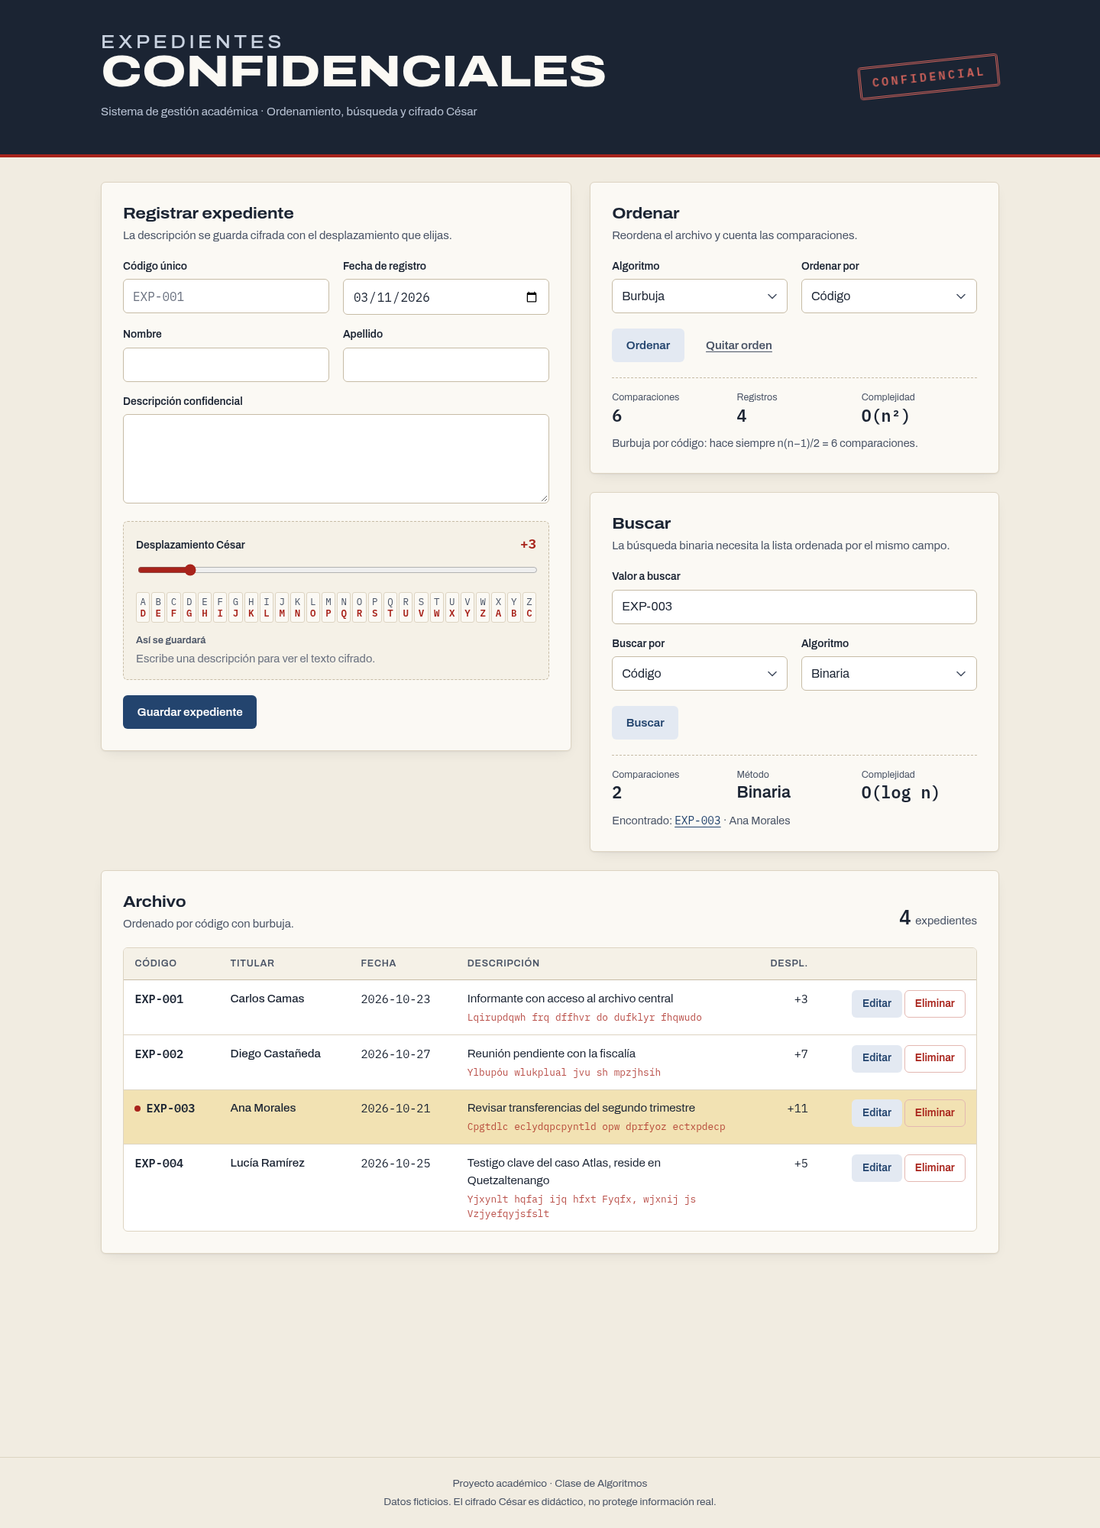
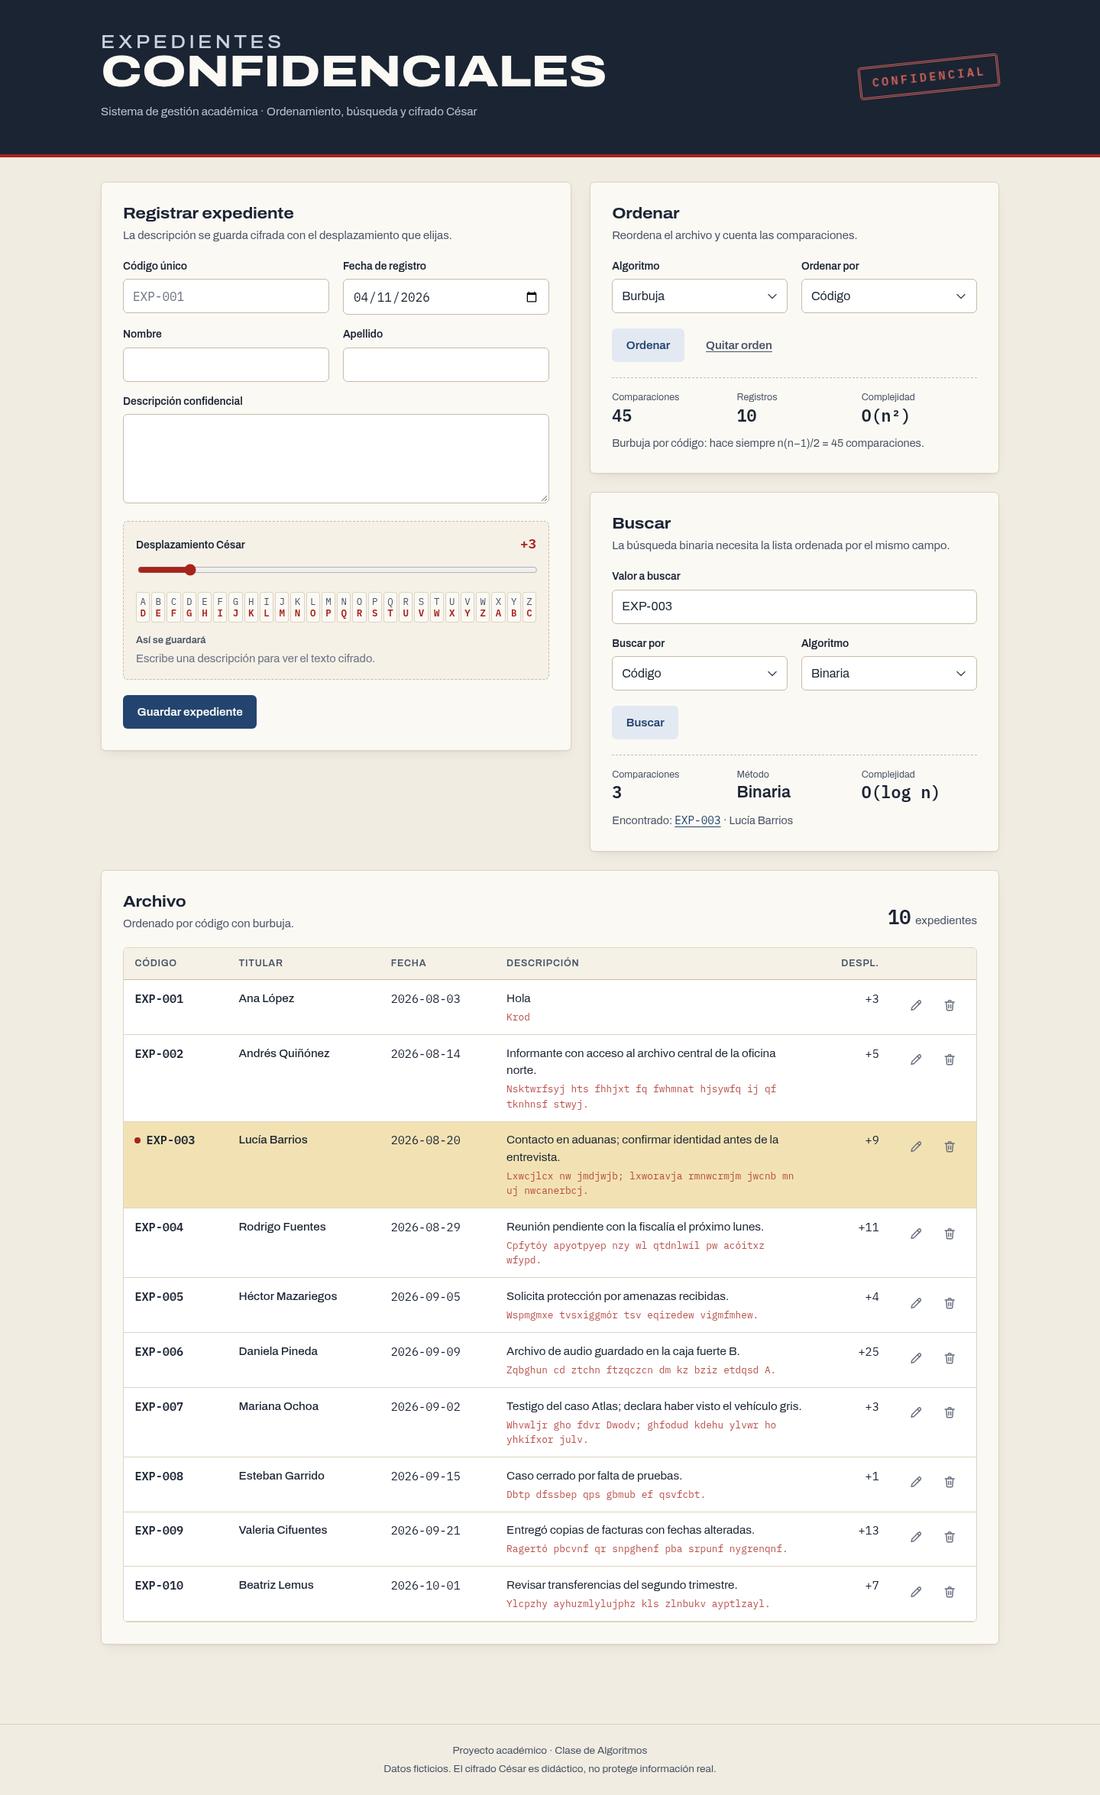
Agrega JSON de ejemplo y documentación de entrega
- 10 expedientes ficticios en data/expedientes.json y expedientes_ejemplo.json.
- docs/DOCUMENTACION.md: propuesta de valor, cumplimiento de requisitos,
  explicación de algoritmos y decisiones, evidencia de pruebas y guion de demo.
- Pruebas de archivo vacío, persistencia y validez del JSON de ejemplo.
- Capturas actualizadas con los datos de ejemplo.

Changed region(s): [[0.0, 0.0, 1.0, 0.9228], [0.34, 0.9535, 0.6491, 1.0], [0.4636, 0.1538, 0.4945, 0.2153]]

diff --git a/expedientes-confidenciales/tests/test_app.py b/expedientes-confidenciales/tests/test_app.py
@@ -127,3 +127,28 @@ def test_eliminar_vuelve_a_la_misma_vista(cliente):
     assert r.status_code == 302
     assert r.headers["Location"] == "/?ordenar=seleccion&campo_orden=nombre"
     assert leer(cliente) == []
+
+
+def test_archivo_vacio_muestra_error(cliente):
+    cliente.archivo.write_text("", encoding="utf-8")
+    html = cliente.get("/").get_data(as_text=True)
+    assert "vacío o tiene formato inválido" in html
+
+
+def test_los_datos_persisten_tras_reiniciar(cliente):
+    crear(cliente, codigo="EXP-050", descripcion="HOLA", desplazamiento=3)
+    # Simula reiniciar: se vuelve a leer el archivo desde cero.
+    [exp] = modulo.cargar_expedientes()
+    assert exp["codigo"] == "EXP-050"
+    assert exp["descripcion"] == "KROD"
+
+
+def test_json_de_ejemplo_es_valido(tmp_path, monkeypatch):
+    from pathlib import Path
+    ejemplo = Path(modulo.__file__).parent / "data" / "expedientes_ejemplo.json"
+    destino = tmp_path / "e.json"
+    destino.write_text(ejemplo.read_text(encoding="utf-8"), encoding="utf-8")
+    monkeypatch.setattr(modulo, "ARCHIVO_JSON", destino)
+    datos = modulo.cargar_expedientes()
+    assert len(datos) == 10
+    assert len({d["codigo"] for d in datos}) == 10

diff --git a/docs/DOCUMENTACION.md b/docs/DOCUMENTACION.md
@@ -1,0 +1,186 @@
+# Sistema Web de Expedientes Confidenciales — Documentación
+
+Proyecto final de Algoritmos · Universidad Mariano Gálvez de Guatemala · Ing. David Díaz
+
+## 1. Integrantes y foto del grupo
+
+| Nombre | Carné |
+|---|---|
+| _Pendiente_ | _Pendiente_ |
+| _Pendiente_ | _Pendiente_ |
+| _Pendiente_ | _Pendiente_ |
+| _Pendiente_ | _Pendiente_ |
+
+![Foto del grupo](foto-grupo.jpg)
+
+> Pendiente: guardar la foto grupal (no individuales) como `docs/foto-grupo.jpg` y completar la tabla.
+
+## 2. Propuesta de valor
+
+**Para** oficinas que manejan expedientes sensibles (fiscalías, recursos humanos, investigación interna) y para estudiantes que aprenden algoritmos, **Expedientes Confidenciales** es una aplicación web que registra, organiza y encuentra expedientes guardando su descripción cifrada.
+
+- **Ordena y encuentra rápido.** Ordena por código o nombre y busca de forma secuencial o binaria, mostrando cuántas comparaciones hizo cada algoritmo. Así se ve en la práctica por qué la búsqueda binaria es más eficiente.
+- **La descripción no se guarda en texto plano.** Cada expediente tiene su propio desplazamiento César y la app muestra en vivo cómo queda cifrado. Es didáctico: César no ofrece seguridad real.
+- **Sin instalar una base de datos.** Los datos viven en un archivo JSON que se puede revisar, respaldar y compartir.
+- **Funciona en cualquier dispositivo.** Se usa desde el navegador, en computadora o celular.
+
+## 3. Cumplimiento de requisitos
+
+| Requisito del enunciado | Cómo se cumple | Dónde |
+|---|---|---|
+| Aplicación web accesible desde navegador | Flask + HTML/CSS; diseño responsive | `app.py`, `templates/` |
+| Expediente: código único, nombre, apellido, fecha, descripción | Formulario con todos los campos obligatorios | `templates/_campos.html` |
+| Crear · consultar · editar · eliminar | Registro, tabla y búsqueda, edición y borrado dentro de la tabla | `app.py` (`crear`, `inicio`, `editar`, `eliminar`) |
+| Leer y guardar en JSON, sin base de datos | `cargar_expedientes()` y `guardar_expedientes()` | `data/expedientes.json` |
+| Persistencia tras reiniciar | Cada cambio se escribe al JSON (escritura atómica) | prueba `test_los_datos_persisten_tras_reiniciar` |
+| Validaciones: código duplicado | Compara sin distinguir mayúsculas | `buscar_por_codigo()` |
+| Validaciones: archivo vacío o inválido | Mensaje de error sin que la app se caiga | `cargar_expedientes()` |
+| Validaciones: campos obligatorios | Se valida en el servidor (y en el navegador) | `leer_formulario()` |
+| Burbuja y selección, por código o nombre | Implementados a mano | `algoritmos/ordenamiento.py` |
+| Mostrar número de comparaciones | Se muestra tras ordenar y tras buscar | `templates/index.html` |
+| No usar `sort()` ni `sorted()` | No se usan en ninguna parte del código | — |
+| Búsqueda secuencial y binaria | Implementadas a mano | `algoritmos/busqueda.py` |
+| Binaria exige orden previo por el campo buscado | Si no se cumple, muestra un aviso y no busca | `pagina_inicio()` |
+| Buscar código existente e inexistente | Ambos casos muestran resultado y comparaciones | sección 5.2 |
+| César con desplazamiento configurable y reversible | Desplazamiento 0–25 por expediente; `descifrar` revierte | `algoritmos/cesar.py` |
+| Solo datos ficticios | El JSON de ejemplo es inventado | `data/expedientes_ejemplo.json` |
+| JSON de ejemplo | 10 expedientes ficticios | `data/expedientes_ejemplo.json` |
+| Guía de instalación y ejecución | README | `README.md` |
+
+## 4. Explicación de algoritmos y decisiones
+
+### 4.1 Ordenamiento burbuja
+
+Recorre la lista comparando cada par de elementos vecinos y los intercambia si están en desorden. Tras cada pasada, el mayor de lo que queda "sube" al final, así que la siguiente pasada revisa un elemento menos.
+
+- Comparaciones: siempre `n(n−1)/2` (con 10 expedientes, 45).
+- Complejidad: O(n²).
+
+### 4.2 Ordenamiento por selección
+
+En cada paso busca el menor de la parte sin ordenar y lo coloca en su posición con un solo intercambio.
+
+- Comparaciones: siempre `n(n−1)/2`.
+- Hace como máximo `n−1` intercambios, menos que burbuja.
+- Complejidad: O(n²).
+
+### 4.3 Búsqueda secuencial
+
+Revisa los expedientes uno por uno hasta encontrar el valor o terminar la lista. Funciona con la lista en cualquier orden.
+
+- Comparaciones: de 1 a `n`.
+- Complejidad: O(n).
+
+### 4.4 Búsqueda binaria
+
+Compara con el elemento del medio y descarta la mitad donde no puede estar el valor; repite con la mitad restante. Solo es correcta si la lista está ordenada por el mismo campo que se busca, por eso la app la bloquea si no se cumple.
+
+- Comparaciones: como máximo `⌊log₂ n⌋ + 1` (con 10 expedientes, 4).
+- Complejidad: O(log n).
+
+### 4.5 Cifrado César
+
+Cada letra se reemplaza por la que está `d` posiciones más adelante en el alfabeto, dando la vuelta de la Z a la A. Ejemplo del enunciado: `HOLA` con +3 → `KROD`. Para descifrar se aplica el mismo algoritmo con `−d`.
+
+- Se respetan mayúsculas y minúsculas.
+- Solo se desplazan las letras A–Z sin acento; la ñ, los acentos, los números y los signos quedan igual.
+
+### 4.6 Decisiones de diseño
+
+| Decisión | Motivo |
+|---|---|
+| Flask y Python | Sintaxis cercana al pseudocódigo del curso; servidor web en pocas líneas. |
+| Algoritmos en `algoritmos/`, separados de la web | Se pueden leer, probar y explicar sin depender de Flask. |
+| Comparación sin distinguir mayúsculas (`casefold`) | "ana" y "Ana" deben ordenarse y encontrarse igual. |
+| Los algoritmos devuelven una copia ordenada | Ordenar para mostrar no altera el orden guardado en el archivo. |
+| Desplazamiento guardado en cada expediente | Cada registro puede tener su propia clave y siempre se puede descifrar. |
+| Escritura atómica del JSON (archivo temporal + reemplazo) | Si algo falla al guardar, el archivo original no queda a medias. |
+| Registros antiguos sin desplazamiento se migran con +3 | Compatibilidad con datos creados antes de agregar ese campo. |
+| Editar y eliminar dentro de la tabla, sin ventanas del navegador | Menos pasos para el usuario y una confirmación clara antes de borrar. |
+
+## 5. Evidencia de pruebas de aseguramiento de calidad
+
+### 5.1 Pruebas automáticas (pytest)
+
+17 pruebas, todas aprobadas. GitHub Actions las ejecuta en cada PR.
+
+```
+tests/test_algoritmos.py::test_cesar_ida_y_vuelta PASSED
+tests/test_algoritmos.py::test_cesar_da_la_vuelta_al_alfabeto PASSED
+tests/test_algoritmos.py::test_ordenamientos_coinciden_y_no_mutan PASSED
+tests/test_algoritmos.py::test_ordenar_listas_cortas PASSED
+tests/test_algoritmos.py::test_busqueda_secuencial PASSED
+tests/test_algoritmos.py::test_busqueda_binaria PASSED
+tests/test_app.py::test_inicio_vacio PASSED
+tests/test_app.py::test_crear_guarda_cifrado PASSED
+tests/test_app.py::test_crear_rechaza_duplicado_y_datos_invalidos PASSED
+tests/test_app.py::test_editar_y_eliminar PASSED
+tests/test_app.py::test_ordenar_y_buscar PASSED
+tests/test_app.py::test_json_corrupto_y_migracion PASSED
+tests/test_app.py::test_editar_con_error_conserva_lo_escrito PASSED
+tests/test_app.py::test_eliminar_vuelve_a_la_misma_vista PASSED
+tests/test_app.py::test_archivo_vacio_muestra_error PASSED
+tests/test_app.py::test_los_datos_persisten_tras_reiniciar PASSED
+tests/test_app.py::test_json_de_ejemplo_es_valido PASSED
+============================== 17 passed ==============================
+```
+
+Para repetirlas: `pip install -r requirements-dev.txt`, luego `cd expedientes-confidenciales` y `python -m pytest -v`.
+
+### 5.2 Casos de prueba funcionales
+
+Ejecutados sobre `data/expedientes_ejemplo.json` (10 expedientes, guardados en desorden a propósito).
+
+| # | Caso | Entrada | Resultado esperado | Resultado obtenido | Estado |
+|---|---|---|---|---|---|
+| 1 | Ordenar por código con burbuja | Burbuja · Código | EXP-001 … EXP-010, 45 comparaciones | EXP-001 … EXP-010, 45 comparaciones | ✅ |
+| 2 | Ordenar por nombre con selección | Selección · Nombre | Ana, Andrés, Beatriz … Valeria; 45 comparaciones | Igual; 45 comparaciones | ✅ |
+| 3 | Búsqueda secuencial, código existente | `EXP-003` | Encontrado | Encontrado, 8 comparaciones (está en la posición 8) | ✅ |
+| 4 | Búsqueda secuencial, código inexistente | `EXP-099` | No encontrado | No encontrado, 10 comparaciones | ✅ |
+| 5 | Búsqueda binaria sin ordenar | `EXP-003` | Aviso: primero ordenar | «Primero ordena los expedientes…» | ✅ |
+| 6 | Búsqueda binaria ordenada por otro campo | Orden por nombre, buscar código | Aviso: mismo campo | «Ordena por el mismo campo…» | ✅ |
+| 7 | Búsqueda binaria, código existente | Orden por código · `EXP-003` | Encontrado en ≤ 4 comparaciones | Encontrado, 3 comparaciones | ✅ |
+| 8 | Búsqueda binaria, código inexistente | Orden por código · `EXP-099` | No encontrado en ≤ 4 comparaciones | No encontrado, 4 comparaciones | ✅ |
+| 9 | Búsqueda binaria por nombre | Orden por nombre · `lucía` | Encontrado sin importar mayúsculas | EXP-003, 4 comparaciones | ✅ |
+| 10 | Cifrado del enunciado | `HOLA`, +3 | `KROD` | `KROD` | ✅ |
+| 11 | Descifrar | Texto cifrado con +25 | Texto original | Texto original | ✅ |
+| 12 | Código duplicado | Registrar `exp-001` existiendo `EXP-001` | Rechazado | «El código exp-001 ya existe.» | ✅ |
+| 13 | Campos obligatorios | Código vacío | Rechazado | «Todos los campos son obligatorios.» | ✅ |
+| 14 | Desplazamiento fuera de rango | 30 | Rechazado | «El desplazamiento debe estar entre 0 y 25.» | ✅ |
+| 15 | Archivo vacío | `expedientes.json` sin contenido | Mensaje, la app no se cae | «El archivo expedientes.json está vacío o tiene formato inválido.» | ✅ |
+| 16 | JSON inválido | `{malo` | Mensaje, la app no se cae | Mismo mensaje | ✅ |
+| 17 | Persistencia | Registrar y volver a leer el archivo | El registro sigue ahí | El registro sigue ahí, cifrado | ✅ |
+| 18 | Editar con error | Cambiar a un código ya usado | Aviso en la fila, conserva lo escrito | Aviso en la fila y datos conservados | ✅ |
+| 19 | Eliminar | Papelera → «Sí, eliminar» | Se borra tras confirmar en la fila | Se borra; sin ventanas del navegador | ✅ |
+| 20 | Vista en celular (390 px) | — | Sin desplazamiento horizontal | Tabla en tarjetas, sin desborde | ✅ |
+
+### 5.3 Capturas
+
+**Ordenado por código con burbuja y búsqueda binaria de `EXP-003`**
+
+![Escritorio](captura-escritorio.png)
+
+**Edición dentro de la tabla, con vista previa del cifrado**
+
+![Editar](captura-editar.png)
+
+**Confirmación de borrado en la fila**
+
+![Eliminar](captura-eliminar.png)
+
+**Celular**
+
+![Celular](captura-movil.png)
+
+## 6. Guion sugerido para la demostración
+
+1. Abrir la app y mostrar los 10 expedientes de ejemplo, en desorden.
+2. Registrar un expediente con descripción `HOLA` y desplazamiento +3; mostrar que se guarda `KROD`.
+3. Intentar registrar el mismo código: aparece el aviso de duplicado.
+4. Ordenar por código con burbuja y luego por nombre con selección; comparar las comparaciones (45 en ambos).
+5. Buscar `EXP-003` de forma secuencial (8 comparaciones) y luego binaria con la lista ordenada (3 comparaciones).
+6. Buscar `EXP-099` (inexistente) con ambos métodos.
+7. Intentar la búsqueda binaria sin ordenar: aparece el aviso.
+8. Editar un expediente y cambiar su desplazamiento; mostrar el nuevo texto cifrado.
+9. Eliminar un expediente con la confirmación en la fila.
+10. Reiniciar el servidor y mostrar que los datos siguen ahí.

diff --git a/README.md b/README.md
@@ -8,6 +8,8 @@ Aplicación web en Flask para registrar expedientes ficticios y practicar los al
 
 Proyecto final de la clase de Algoritmos. Los datos son ficticios y el cifrado César es didáctico: no protege información real.
 
+**Documentación del proyecto** (propuesta de valor, explicación de algoritmos y decisiones, evidencia de pruebas y guion de demostración): [docs/DOCUMENTACION.md](docs/DOCUMENTACION.md)
+
 | Escritorio | Celular |
 |---|---|
 | ![Vista de escritorio](docs/captura-escritorio.png) | ![Vista en celular](docs/captura-movil.png) |
@@ -40,7 +42,15 @@ cd expedientes-confidenciales
 flask --app app run
 ```
 
-Abre <http://127.0.0.1:5000>.
+Abre <http://127.0.0.1:5000>. La app arranca con 10 expedientes ficticios de ejemplo.
+
+### Datos de ejemplo
+
+`data/expedientes.json` es el archivo que usa la app. Para volver a los datos de ejemplo originales:
+
+```bash
+cp data/expedientes_ejemplo.json data/expedientes.json
+```
 
 ### Variables de entorno (opcionales)
 
@@ -69,7 +79,9 @@ expedientes-confidenciales/
 │   ├── ordenamiento.py    # Burbuja y selección
 │   ├── busqueda.py        # Secuencial y binaria
 │   └── cesar.py           # Cifrar y descifrar
-├── data/expedientes.json  # Datos (se crea si no existe)
+├── data/
+│   ├── expedientes.json          # Datos que usa la app (se crea si no existe)
+│   └── expedientes_ejemplo.json  # 10 expedientes ficticios de ejemplo
 ├── static/
 │   ├── estilos.css
 │   └── app.js             # Vista previa del cifrado y paneles de editar/eliminar
